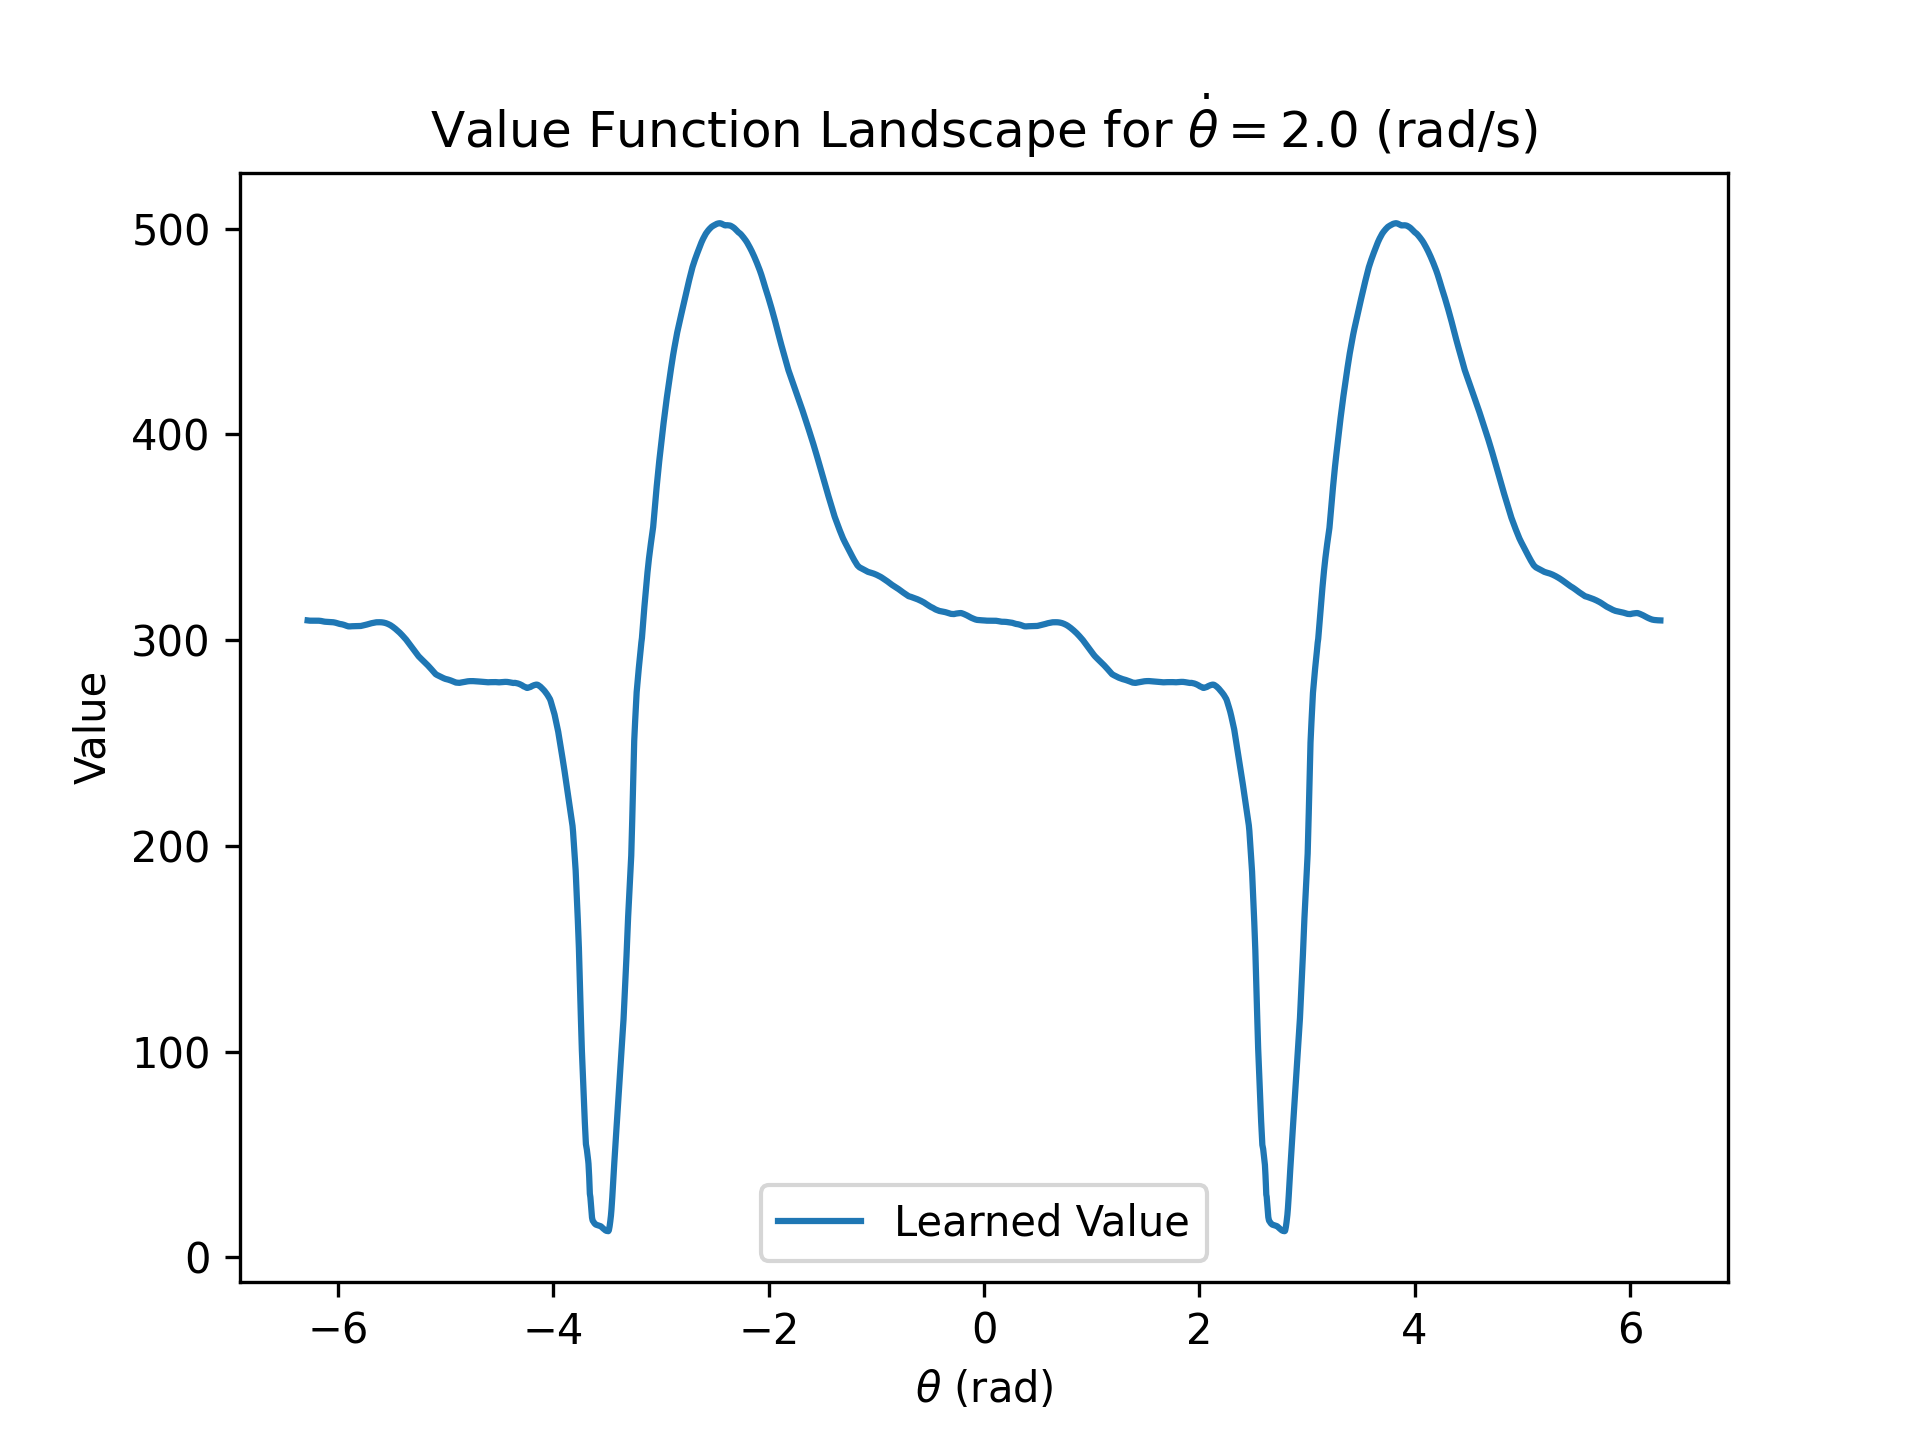
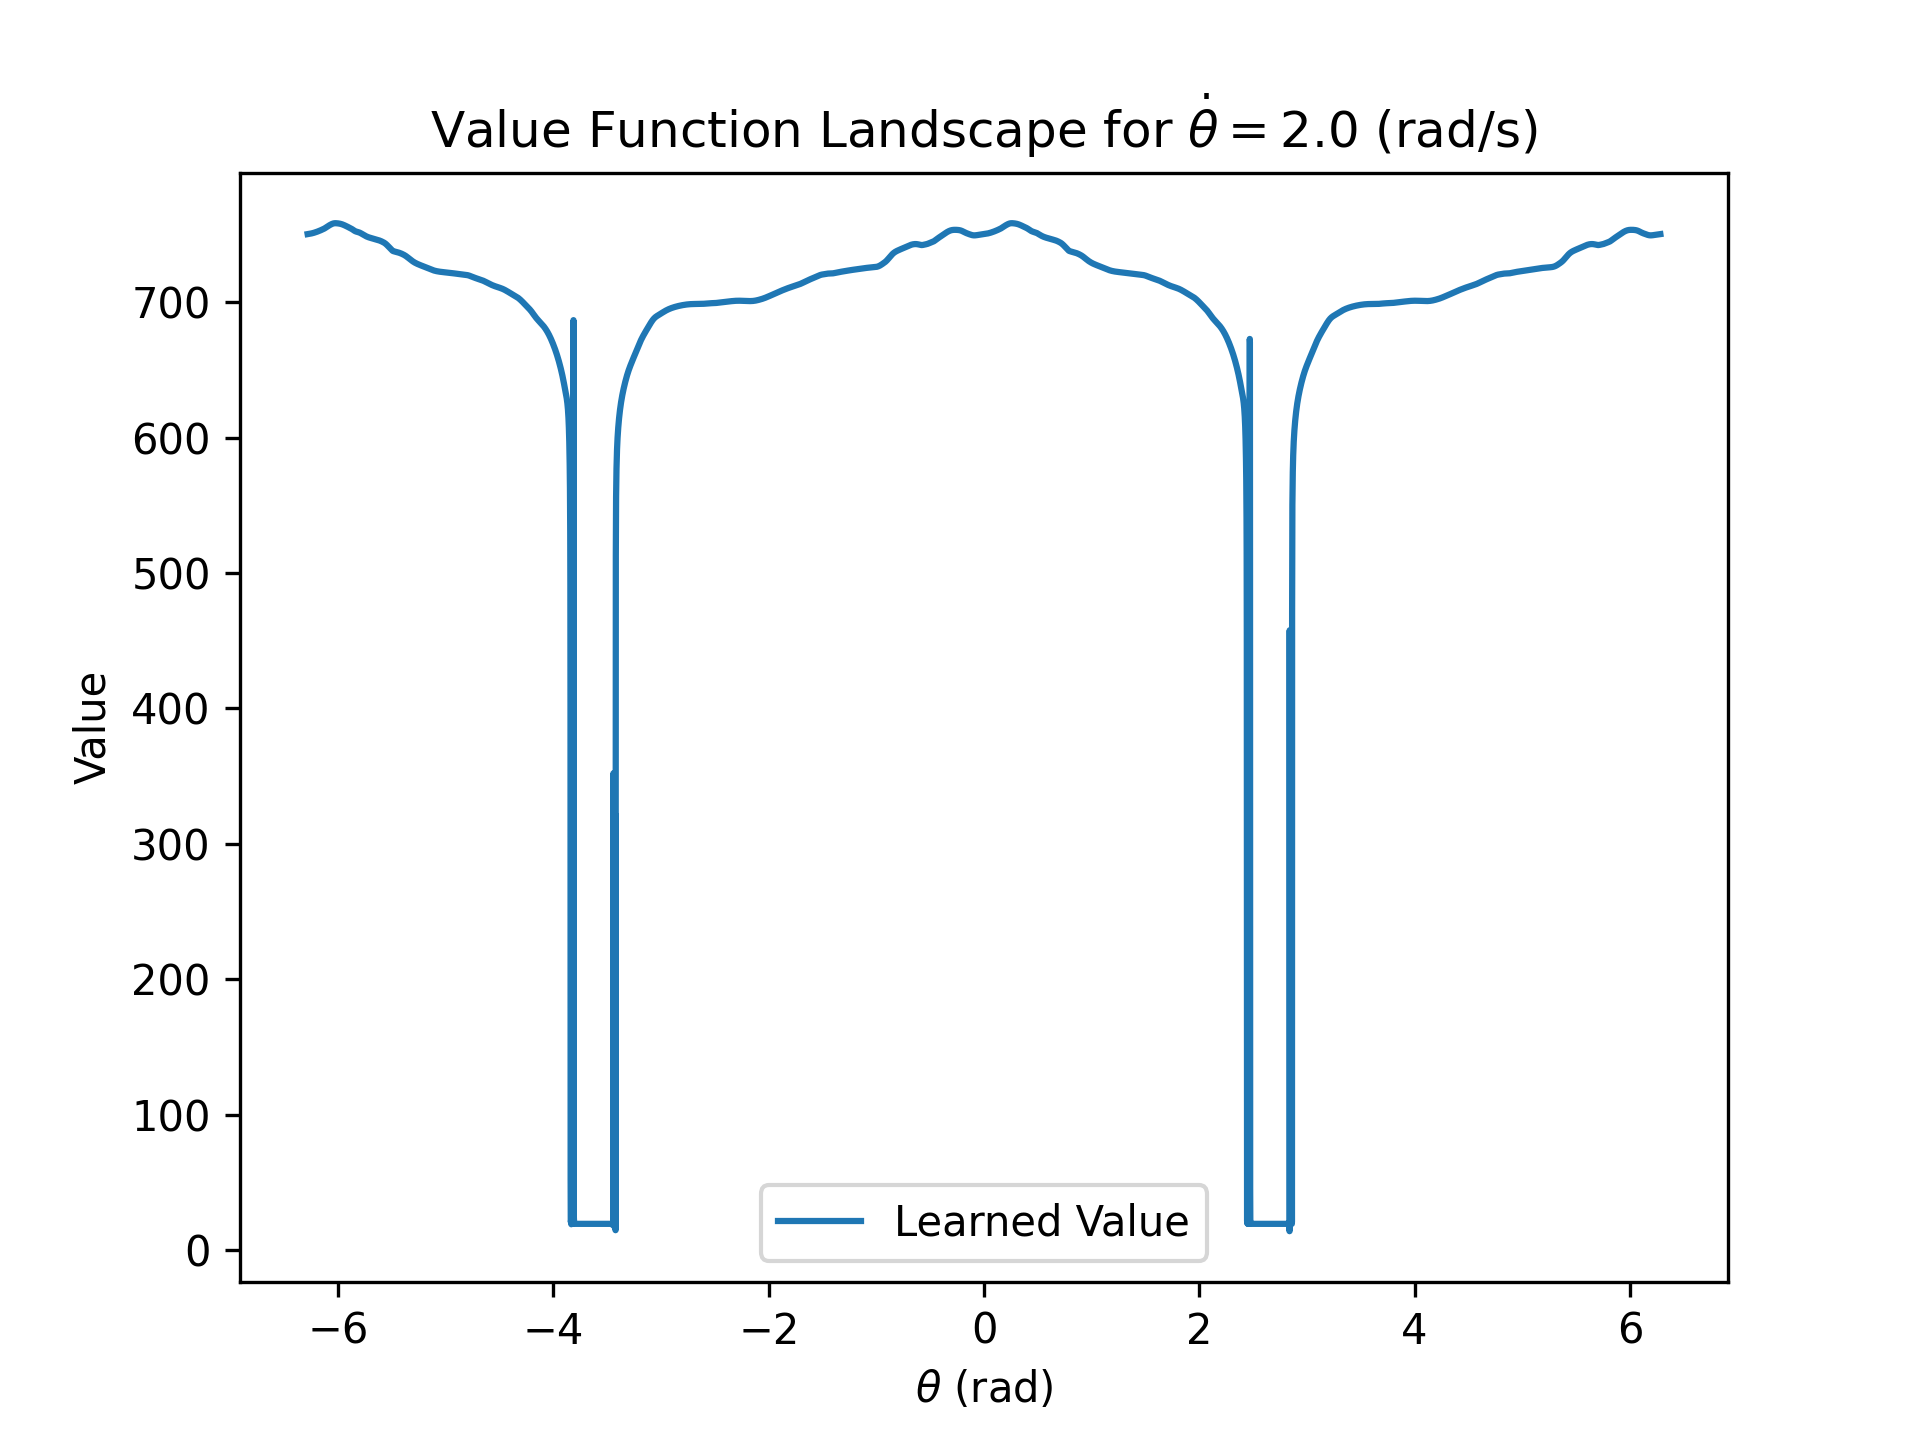
prototype on computer

diff --git a/scripts/ddpg/generate_data.py b/scripts/ddpg/generate_data.py
@@ -6,13 +6,14 @@ from jax import Array
 from jax import numpy as jnp
 from einops import einsum
 from flax import nnx
+import flashbax as fbx
 import optax
 import orbax.checkpoint as ocp
 import matplotlib.pyplot as plt
 
 from val import Dynamics, make_step
 from val.pendulum import init_pendulum_state, normalize_pendulum_state, pendulum_cost
-from val.ddpg import DDPG, Policy, build_hidden_layers, soft_update
+from val.ddpg import SART, DDPG, Policy, build_hidden_layers, soft_update
 
 class Value(nnx.Module):
     def __init__(
@@ -77,12 +78,19 @@ if __name__ == '__main__':
     rngs = nnx.Rngs(seed)
     key = jax.random.PRNGKey(seed)
 
+    ## buffer parameters
+    iterations = 100
+    num_env = 1000
     episode_len = 400
+    buffer_len = iterations * num_env * episode_len
+    print(f'Buffer Length = {buffer_len}')
+
     dt = 0.05
     ## load in xml
-    xml_path = 'xml/pendulum.xml'
-    dyn = Dynamics(path = xml_path, dt = dt)
+    dyn = Dynamics(path = 'xml/pendulum.xml', dt = dt)
     step = make_step(dyn)
+    batch_step = jax.jit(jax.vmap(step))
+    batch_init_state = jax.jit(jax.vmap(init_pendulum_state))
     input_dim = len(normalize_pendulum_state(init_pendulum_state(key))) ## get the shape of the normalized state
     ctrl_dim = dyn.control_dim
 
@@ -96,6 +104,8 @@ if __name__ == '__main__':
     gamma = 0.99
     tau = 0.005
 
+    batch_size = 128
+
     ## load in pretrained ddpg
     path = Path(f'checkpoints/hidden_dim={hidden_dim}-num_layers_critic={num_layers_critic}-grad_penalty=0.0-hess_penalty=0.0').resolve()
     manager = ocp.CheckpointManager(path)
@@ -103,59 +113,61 @@ if __name__ == '__main__':
     ddpg_state = manager.restore(39900, args = ocp.args.StandardRestore(nnx.state(ddpg)))
     nnx.update(ddpg, ddpg_state)
     policy = ddpg.policy
+    pi = lambda _x: policy(normalize_pendulum_state(_x))
+    batch_pi = jax.jit(jax.vmap(pi))
+    batch_cost = jax.jit(jax.vmap(pendulum_cost))
 
-    value = Value(rngs, input_dim, hidden_dim = 256, num_layers = 10, activation = nnx.gelu)
-    target_value = nnx.clone(value)
-    value_opt = nnx.Optimizer(value, optax.adam(1e-3))
+    ## instantiating the buffer
+    buffer = fbx.make_flat_buffer(
+        max_length = buffer_len,
+        min_length = batch_size,
+        sample_batch_size = batch_size,
+        add_batch_size = num_env
+    )
 
-    update_value = make_update_value(policy, step, pendulum_cost, normalize_pendulum_state, gamma)
 
-    key, subkey = jax.random.split(key)
-    batch_size = 1024
+    ## jit compiling buffer functions
+    buffer = buffer.replace(
+        init = jax.jit(buffer.init),
+        add = jax.jit(buffer.add, donate_argnums = 0),
+        sample = jax.jit(buffer.sample),
+        can_sample = jax.jit(buffer.can_sample),
+    )
 
-    batch_init_state = jax.vmap(init_pendulum_state)
+    ## create dummy transition
+    sart = SART(
+        s = jnp.zeros(dyn.state_dim), 
+        a = jnp.zeros(dyn.control_dim),
+        r = jnp.zeros(1),
+        t = jnp.zeros(1, dtype = bool)
+    )
 
-    loss_hist = []
+    ## initialize replay buffer with dummy transition
+    buffer_state = buffer.init(sart)
+    print(type(buffer_state))
 
-    for i in range(100000):
-        key, subkey = jax.random.split(key)
-        ## initialize a random batch of states
-        batch_key = jax.random.split(key, batch_size)
-        x = batch_init_state(batch_key)
-        loss = update_value(value, target_value, value_opt, x)
-        target_value = soft_update(value, target_value, tau)
-        print(i, loss)
-        loss_hist.append(loss)
+    # for i in range(iterations):
+    #     key, subkey = jax.random.split(key)
+    #     ## initialize a random batch of states
+    #     batch_key = jax.random.split(key, num_env)
+    #     x = batch_init_state(batch_key)
 
-    fig, ax = plt.subplots(1, 1)
-    ax.plot(loss_hist)
-    fig.savefig('loss.png', dpi = 300)
+    #     done = jnp.zeros((num_env, 1), dtype = jnp.bool)
 
-    '''
-    line plot (variable theta)
-    '''
-    n_theta = 10000
-    theta_dot = 2.0
-    theta_min, theta_max = -2 * jnp.pi, 2.0 * jnp.pi
+    #     for t in range(episode_len):
+    #         u = batch_pi(x)
+    #         c = batch_cost(x, u)[:, None]
+    #         x_next = batch_step(x, u)
 
-    # Create meshgrid
-    theta_grid = jnp.linspace(theta_min, theta_max, n_theta)
+    #         ## check if episode is done
+    #         done = done.at[:].set(jnp.bool(i == episode_len - 1))
 
-    grid_points = jnp.stack([
-        theta_grid,
-        jnp.repeat(theta_dot, n_theta)
-    ], axis = -1)
+    #         ## store transition
+    #         sart = SART(s = x,  a = u, r = c, t = done)
+    #         buffer_state = buffer.add(buffer_state, sart)
 
-    z = jax.vmap(normalize_pendulum_state)(grid_points)
-    V_learned = jax.vmap(value)(z)
+    #         ## overwrite previous state
+    #         x = x_next
 
-    fig, ax = plt.subplots(1, 1)
-    ax.set_title(f'Value Function Landscape for ' + r'$\dot\theta = $' + f'{theta_dot} (rad/s)')
-    ax.set_xlabel(r'$\theta$ (rad)')
-    ax.set_ylabel('Value')
-    ax.plot(theta_grid, V_learned, label = 'Learned Value')
-
-    ax.legend()
-    fig.savefig('test.png', dpi = 300)
-    plt.show()
-
+    #         print(t)
+    #         # exit()
